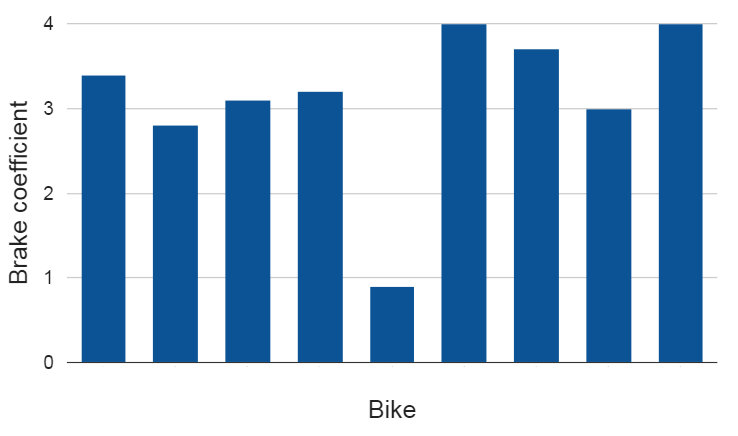
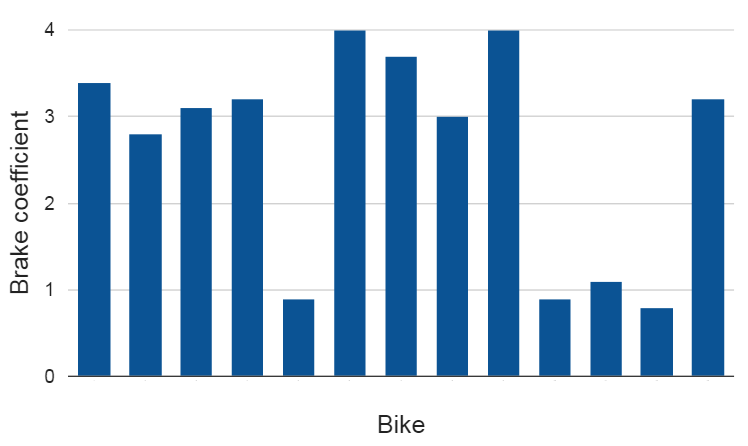
complete overh

diff --git a/eurobike/index.html b/eurobike/index.html
@@ -28,9 +28,8 @@
 		<h2>Electric bicycle quality</h2>
 		<ol>
 			<li>Introduction</li>
-			<li>Combining existing knowledge</li>
-			<li>New quality framework</li>
-			<li>Proven in practice</li>
+			<li>TGVelo Quality label</li>
+            <li>Examples</li>
 			<li>Conclusion</li>
 		</ol>
 	</section>
@@ -40,11 +39,32 @@
         <h2 class="shout">1. Introduction</h2>
     </section>
     
+    <!--
+    <section class="slide">
+        <h2>European EPAC Sales (1000 units) </h2>
+		<img src="pictures/epac_sales.png" alt="transport types" width="100%">
+        <p style="line-height: 10px; text-align: right;">CONEBI European bicycle market (2015 edition)</p>
+	</section>
+    
+    <section class="slide">
+		<h2>Why electric bicycle research</h2>
+        <ul>
+            <li>Enormous opportunities for climate and society</li>
+            <li>Not only leisure, also commuting -> adapted design needed</li>
+            <li>Not only commuting, also shopping/package delivery -> new designs needed</li>
+        </ul>
+	</section>
+    -->
     <section class="slide">
 		<h2>TGVelo Research Project</h2>
         <p>Two persons fulltime for two years, in coorperation with 26 Belgian companies/organisations</p>
         <p><b>TGVelo Team:</b><br/> Dries Callebaut, Jeroen De Maeyer, Bram Rotthier, Jan Cappelle, Emilia Motoasca</p>
         <p><b>Contact:</b><br/> tgveloteam@gmail.com jan.cappelle@kuleuven.be emilia.motoasca@kuleuven.be</p>
+	</section>
+    
+    <section class="slide">
+        <h2>TGVelo electric bicycle lab</h2>
+		<img src="pictures/gent.png" alt="Gent" width="100%">
 	</section>
     
  <!--   <section class="slide">
@@ -67,23 +87,7 @@
 	</section>-->
     
     <section class="slide">
-		<h2>Why electric bycicle research</h2>
-        <ul>
-            <li>Enormous opportunities for climate and society</li>
-            <li>Not only leisure, also commuting -> adapted design needed</li>
-            <li>Not only commuting, also shopping/package delivery -> new designs needed</li>
-        </ul>
-	</section>
-    
-    <section class="slide">
-        <h2>European EPAC Sales (1000 units) </h2>
-		<img src="pictures/epac_sales.png" alt="transport types" width="100%">
-        <p style="line-height: 10px; text-align: right;">CONEBI European bicycle market (2015 edition)</p>
-	</section>
-    
-    <!-- PART 1 -->
-    <section class="slide">
-        <h2 class="shout">2. Combining Existing Knowledge</h2>
+        <h2 class="shout">2. TGVelo Label</h2>
     </section>
     
     <section class="slide">
@@ -99,7 +103,7 @@
     </section>
     
     <section class="slide">
-        <h2>Why a new quality framework?</h2>
+        <h2>Why a quality framework?</h2>
         <p><b>Example from tender:</b></p>
         <blockquote><p>Plastic mudguards.</p></blockquote>
         <p>Very specific detail, no quality level given.</p>
@@ -114,7 +118,7 @@
             <li><b>Integral</b> approach to quality</li>
         </ol>
         <p class="next">Integral: usability!</p>
-        <p class="next">Solution independent (1-4 wheels, up to 50 kg, ...)</p>
+        <p class="next">Solution independent (1-4 wheels, cargo bikes, folding bikes, ...)</p>
 	</section>
         
     <section class="slide p1">
@@ -141,12 +145,11 @@
         </ol>
 	</section>
     
-    <!-- PART 2 -->
     <section class="slide">
-        <h2 class="shout">3. New Quality Framework</h2>
-    </section>
+        <img src="pictures/poster.png" alt="poster" class="cover"/>
+	</section>
     
-    <section class="slide">
+    <!--<section class="slide">
         <h2>TGVelo Quality Label</h2>
         <ol>
             <li><b>General info</b></li>
@@ -260,34 +263,27 @@
     <section class="slide">
         <h2>Example: lights</h2>
 		<img src="pictures/lights.png" alt="existing systems" width = "80%"/>
-	</section>
+	</section>-->
     
     <section class="slide">
-        <h2>Example: brake performance</h2>
-		<img src="pictures/remmentestbank.png" alt="existing systems" width = "80%"/>
-	</section>
-    
-    
-    <!-- PART 3 -->
-    <section class="slide">
-        <h2 class="shout">4. Proven in Practice</h2>
+        <h2 class="shout">3. Examples</h2>
     </section>
     
     <section class="slide">
-        <h2>TGVelo Quality Label</h2>
-        <ol>
-            <li><b>General info:</b></li>
-            <li><b>Useability:</b></li>
-            <li><b>Reliability:</b></li>
-            <li><b>Safety:</b></li>
-        </ol>
+		<h2>Useability:  shimmy</h2>
+        <img src="pictures/shimmy.png" alt="shimmy" width="80%"/>
 	</section>
     
     <section class="slide">
-		<h2>Net available energy</h2>
-        <img src="pictures/nae_vs_battery.png" alt="NAE result" width="80%"/>
+        <h2>Safety: brake performance</h2>
+		<img src="pictures/remmentestbank.png" alt="existing systems" width = "80%"/>
 	</section>
     
+    <section class="slide">
+		<h2>Safety: brake performance</h2>
+        <img src="pictures/bc.png" alt="brake performance"/>
+	</section>
+    <!--
     <section class="slide">
 		<h2>Who fits on the bike</h2>
         <img src="pictures/body_length.png" alt="maatsysteem" width="80%"/>
@@ -297,12 +293,9 @@
 		<h2>Useability: kickstand</h2>
         <img src="pictures/kickstand.png" alt="steun" width="80%"/>
 	</section>
+    -->
     
-    <section class="slide">
-		<h2>Useability:  shimmy</h2>
-        <img src="pictures/shimmy.png" alt="shimmy" width="80%"/>
-	</section>
-    
+    <!--
     <section class="slide">
 		<h2>Useability: motor control</h2>
         <img src="pictures/motor_control.png" alt="regeling" width="80%"/>
@@ -316,23 +309,12 @@
     <section class="slide">
 		<h2>Safety: visibility</h2>
         <img src="pictures/visibility.png" alt="lichten" width="80%"/>
-	</section>
+	</section>-->
     
     <!-- CONCLUSION -->
     <section class="slide">
-        <h2 class="shout">5. Conclusion</h2>
+        <h2 class="shout">4. Conclusion</h2>
     </section>
-    
-    <section class="slide">
-		<h2>TGVelo main principles</h2>
-        <ol>
-            <li><b>Quantify</b> quality</li>
-            <li><b>Repeatable</b> measuring of quality</li>
-            <li><b>Integral</b> approach to quality</li>
-        </ol>
-        <p class="next">Integral: usability!</p>
-        <p class="next">Solution independent (1-4 wheels, up to 50 kg, ...)</p>
-	</section>
     
     <section class="slide">
 		<h2>Conclusion</h2>
